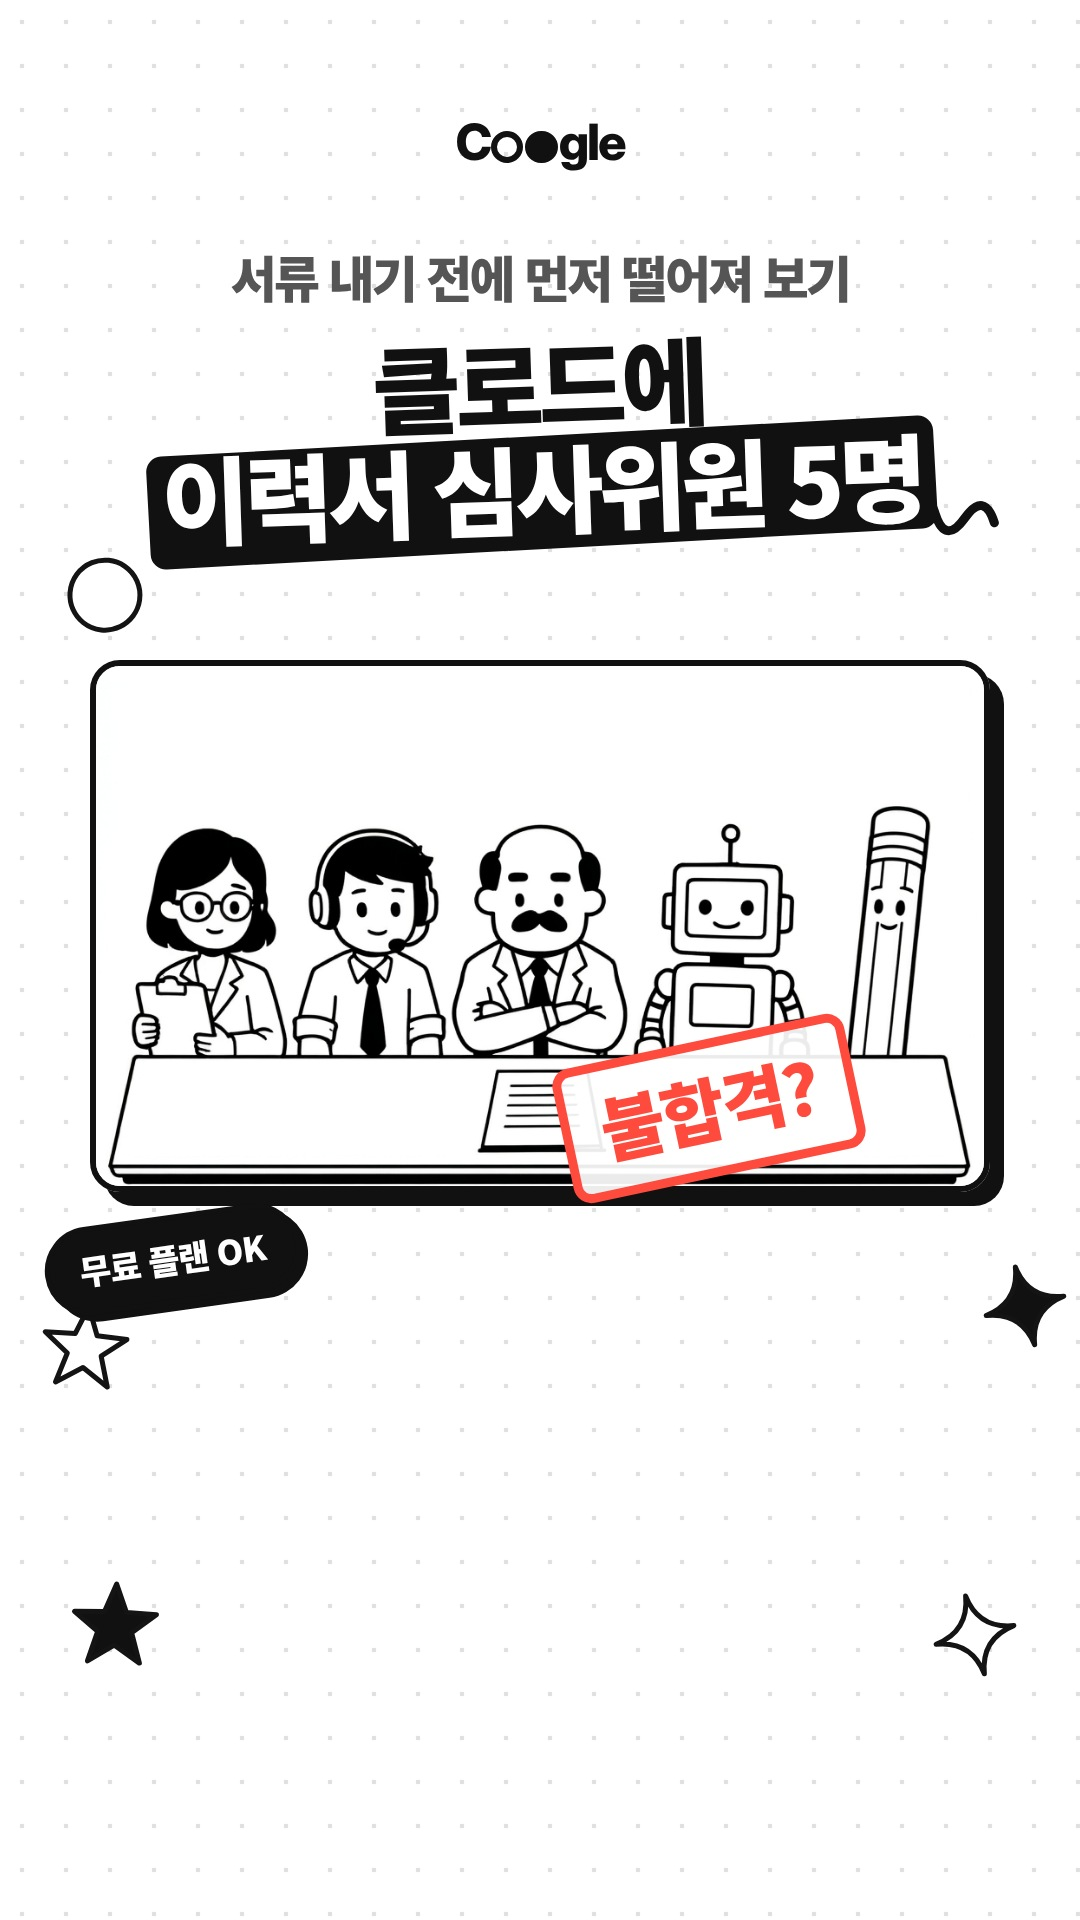
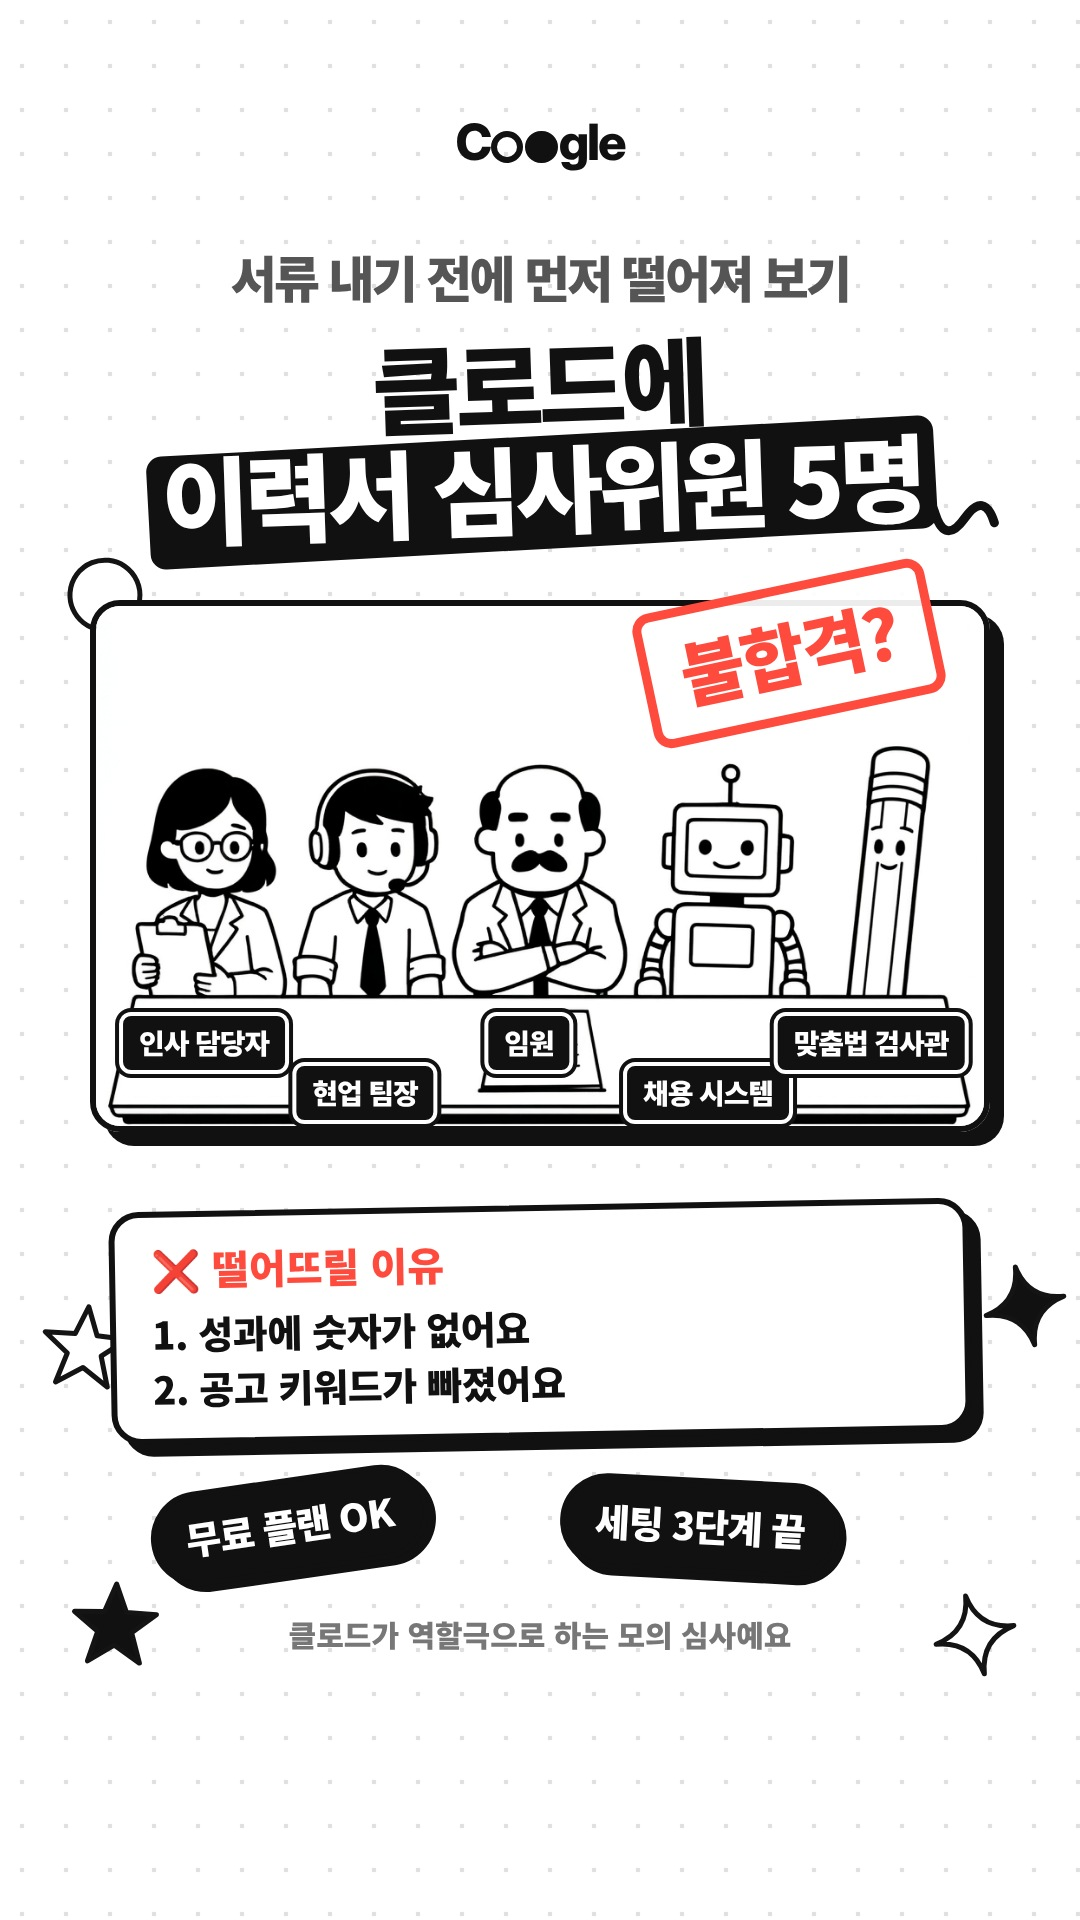
resume-judges: fuller cover (name plates, reasons card, chips)
Claude-Session: https://claude.ai/code/session_01YRvW7WB3ZR124kZQnBwghn

Changed region(s): [[0.0306, 0.2812, 0.9472, 0.875]]

diff --git a/ai/reels/2026-11-28-resume-judges/v3-ludyte/main.js b/ai/reels/2026-11-28-resume-judges/v3-ludyte/main.js
@@ -79,5 +79,10 @@ const TR = location.href.includes('tr');
 if (TR) document.documentElement.classList.add('tr');
 if (location.href.includes('still') || location.href.includes('cover')) document.documentElement.classList.add('still');
 window.__timelines = { main: { seek: async (t) => { render(t); }, duration: () => DUR } };
-if (location.href.includes('cover')) { $('#cap').style.display = 'none'; $('#hA').textContent = '서류 내기 전에 먼저 떨어져 보기'; css($('#hA'), { fontSize: '50px', color: '#555555', top: '250px' }); $('#hB').innerHTML = '클로드에<br><v>이력서 심사위원 5명</v>'; css($('#hB'), { fontSize: '96px', top: '330px' }); css($('#ccH'), { top: '660px' }); $('#hStamp').style.top = '1040px'; $('#hFree').style.top = '1215px'; }
+if (location.href.includes('cover')) { $('#cap').style.display = 'none'; $('#hA').textContent = '서류 내기 전에 먼저 떨어져 보기'; css($('#hA'), { fontSize: '50px', color: '#555555', top: '250px' }); $('#hB').innerHTML = '클로드에<br><v>이력서 심사위원 5명</v>'; css($('#hB'), { fontSize: '96px', top: '330px' }); css($('#ccH'), { top: '600px' }); css($('#hStamp'), { left: '640px', top: '585px' }); css($('#hFree'), { left: '150px', top: '1478px', fontSize: '38px' });
+ const H = $('#hook'); const P = [[204, 1012, '인사 담당자'], [365, 1062, '현업 팀장'], [529, 1012, '임원'], [708, 1062, '채용 시스템'], [871, 1012, '맞춤법 검사관']];
+ H.insertAdjacentHTML('beforeend', P.map(([x, y, n]) => `<div class="plate" style="left:${x}px;top:${y}px;transform:translateX(-50%)">${n}</div>`).join('')
+  + '<div class="card" style="left:110px;top:1205px;width:860px;padding:22px 36px 24px;background:#fff;transform:rotate(-1deg)"><div style="font-size:40px;font-weight:900;color:var(--c);margin-bottom:10px">❌ 떨어뜨릴 이유</div><div class="en" style="font-size:38px;margin-bottom:4px">1. 성과에 숫자가 없어요</div><div class="en" style="font-size:38px">2. 공고 키워드가 빠졌어요</div></div>'
+  + '<div class="chip" style="left:560px;top:1478px;font-size:38px;background:var(--ink);color:#fff;transform:rotate(3deg)">세팅 3단계 끝</div>'
+  + '<div class="ex" style="left:0;right:0;top:1612px;text-align:center;font-size:30px">클로드가 역할극으로 하는 모의 심사예요</div>'); }
 document.fonts.ready.then(() => { render(0); window.__ready = true; });
